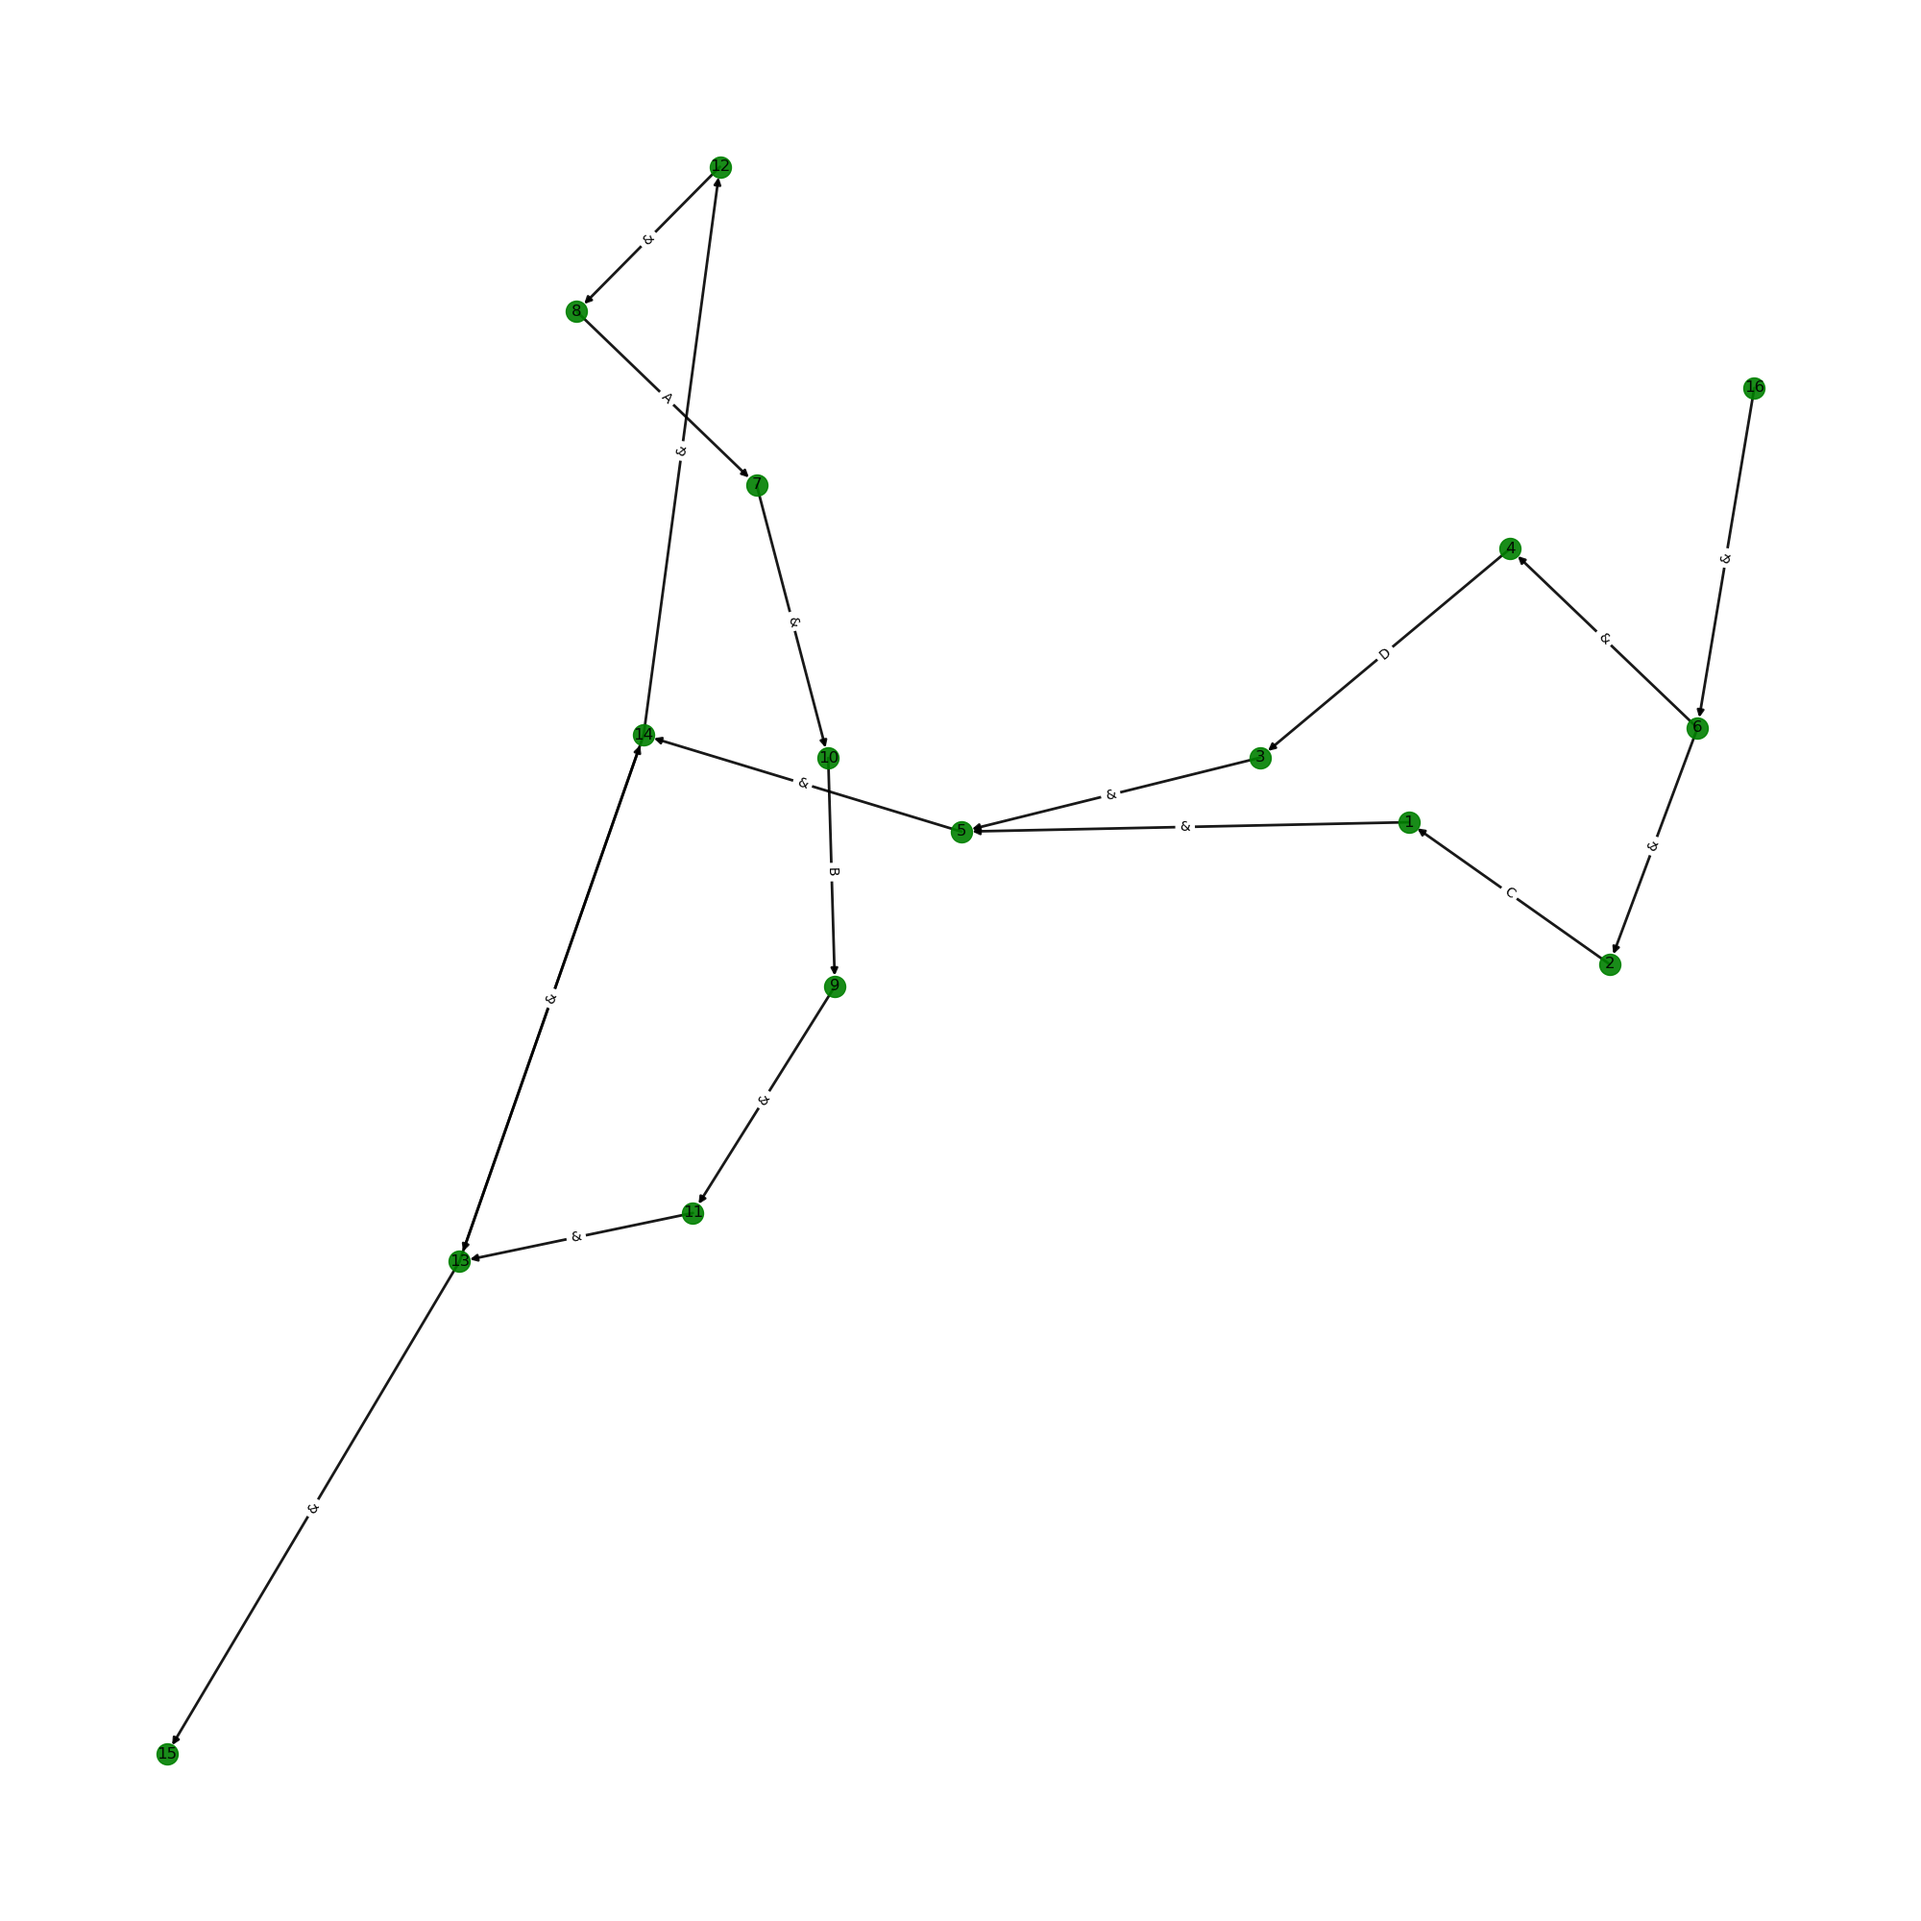
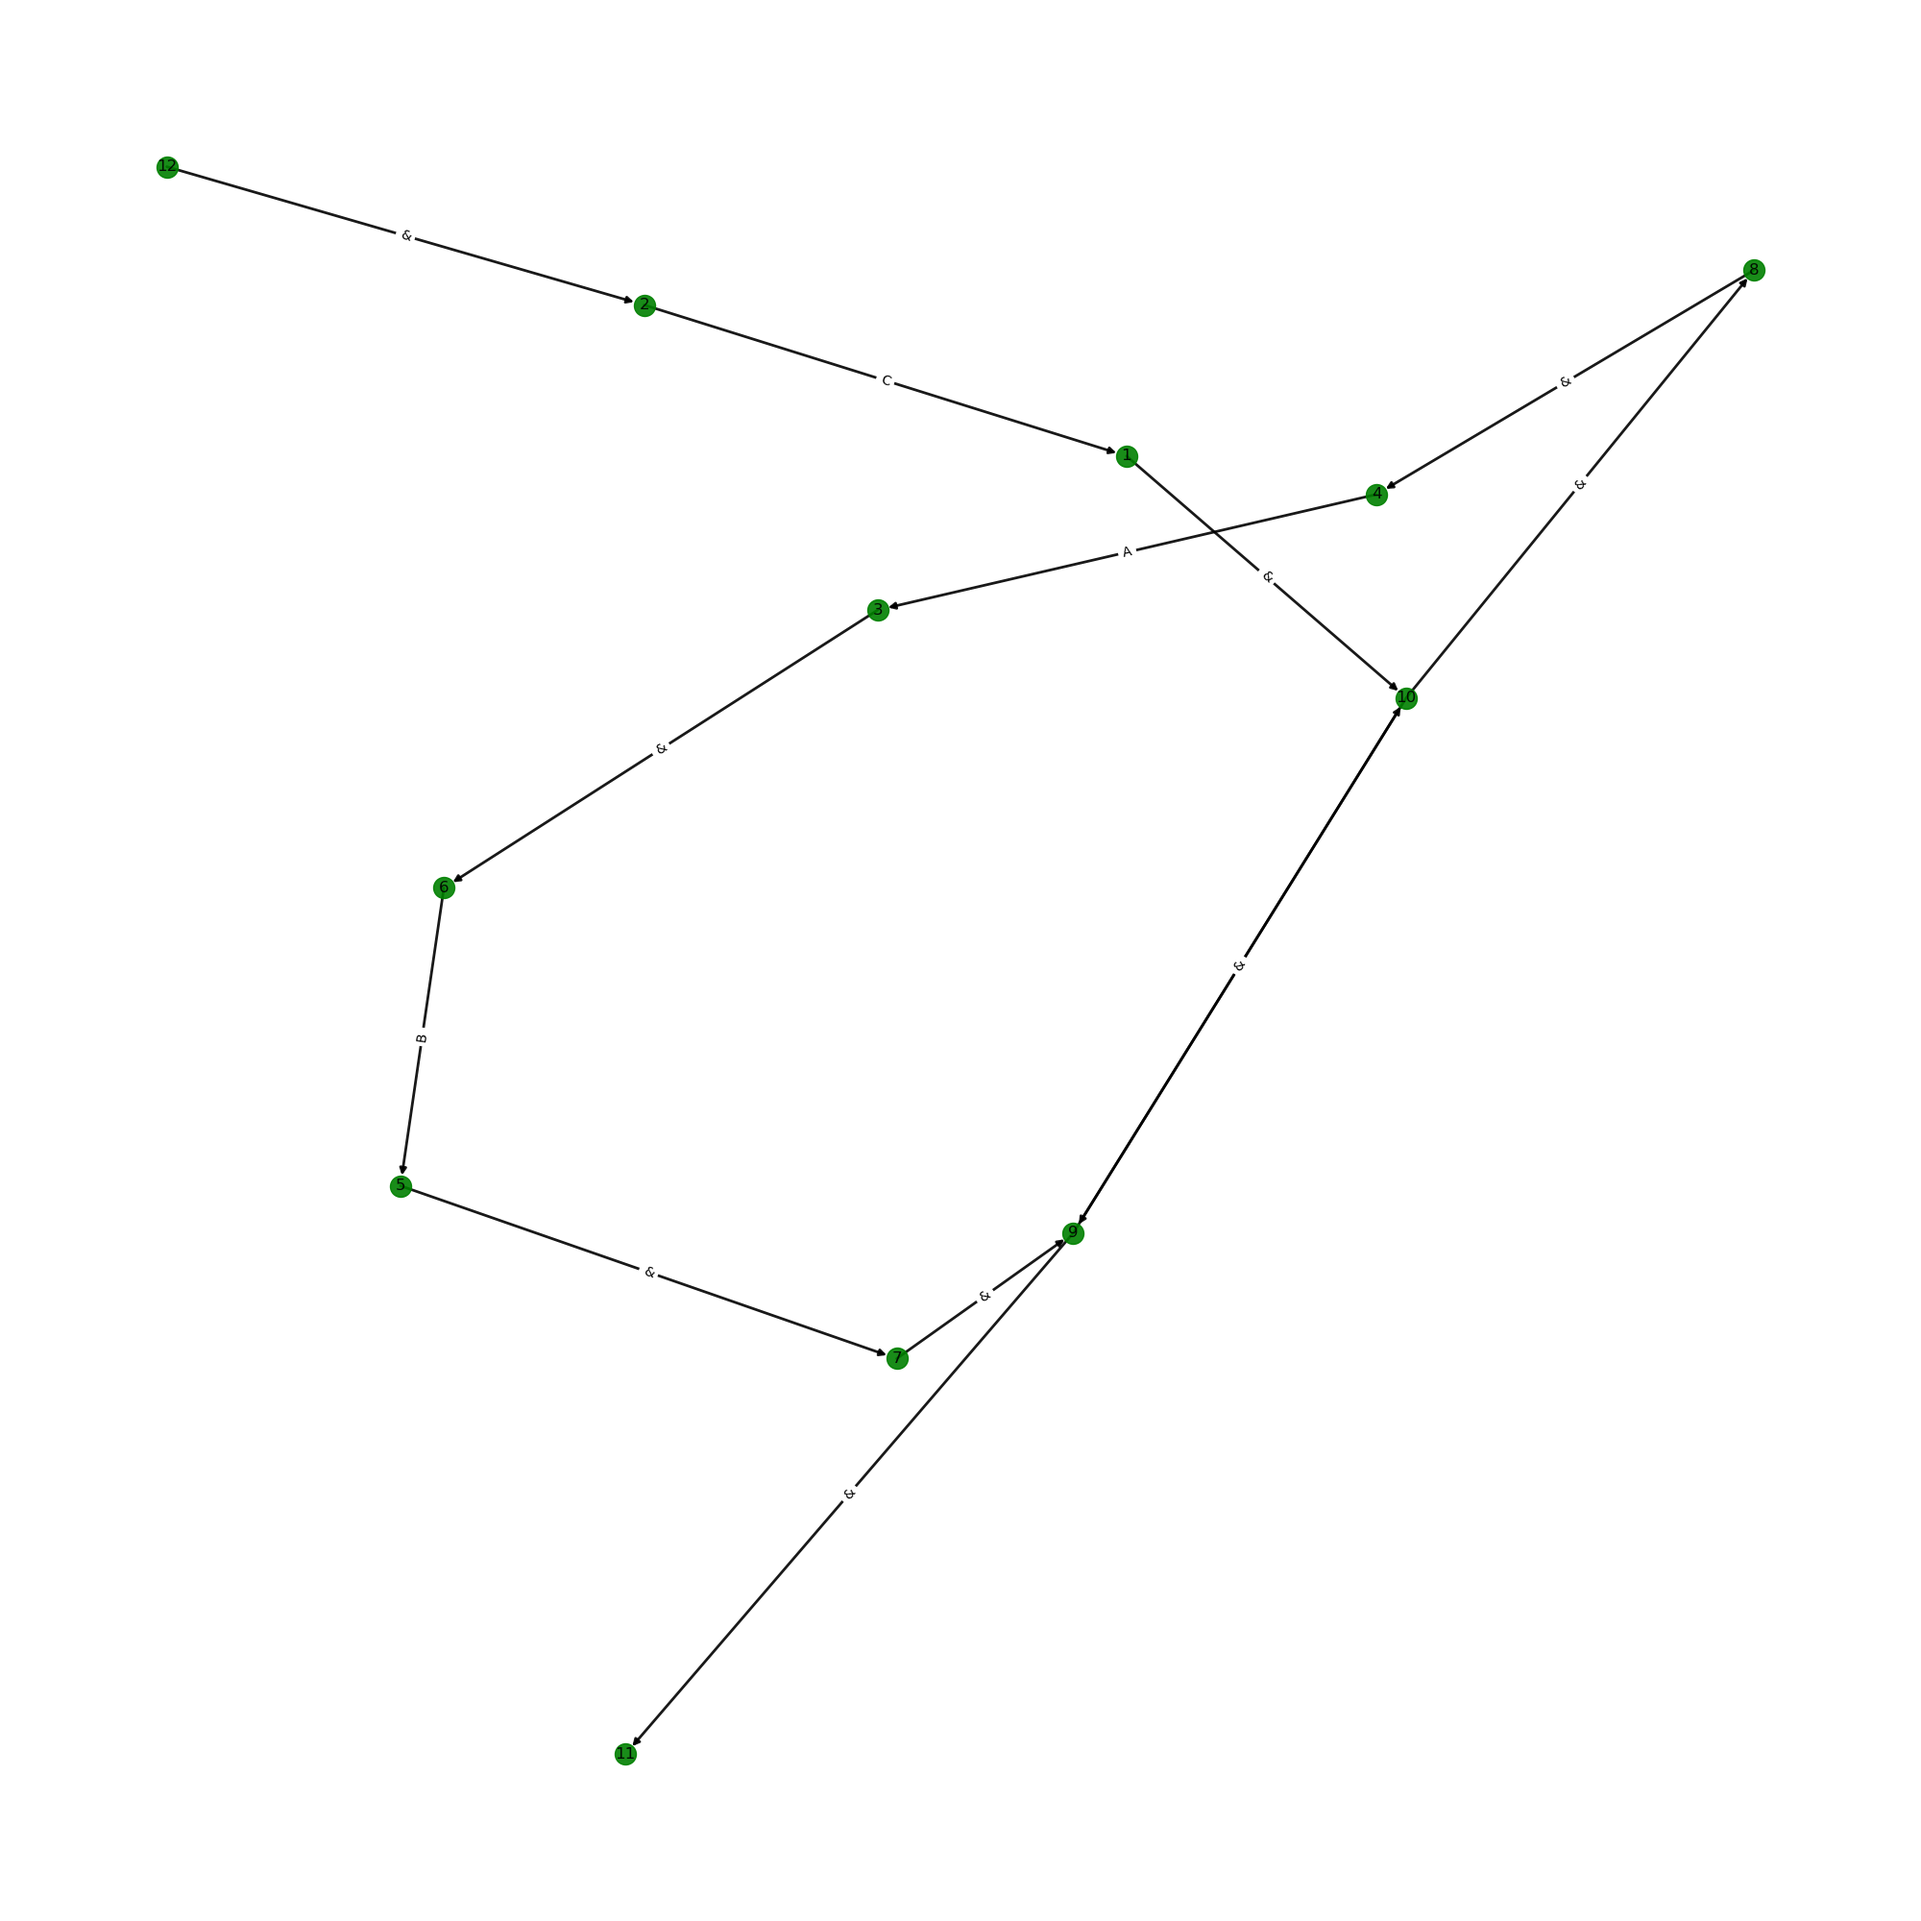
change graph

diff --git a/graph.py b/graph.py
@@ -22,13 +22,14 @@ class Graph():
             self.list_edge.append(edge)
 
     def show(self):
-        G = nx.DiGraph()
+        G = nx.OrderedMultiDiGraph()
         G.add_nodes_from(x.name for x in self.list_node)
         labels = {}
+        cont = 0
         for node in self.list_node:
             for edge in node.edges:
                 labels[(edge.node.name, node.name)] = edge.name
-                G.add_edge(edge.node.name, node.name,length = 5)
+                G.add_edge(edge.node.name, node.name, length=5)
 
         print("Nodes do Grafo: ")
         print(G.nodes())
@@ -38,7 +39,7 @@ class Graph():
 
         pos = nx.layout.spring_layout(G)
 
-        plt.figure(figsize=(20,20)) 
+        plt.figure(figsize=(20, 20))
 
         nx.draw(G, pos, with_labels=True, edge_color='black', width=2,
                 linewidths=1, node_size=250, node_color='green', alpha=0.9,)

diff --git a/project_2.py b/project_2.py
@@ -6,7 +6,7 @@ from postfixNotation import PostfixNotation
 from finiteStateMachine import FiniteStateMachine
 
 if __name__ == "__main__":
-    postfixNotation = PostfixNotation('(C|D).(A.B)*')
+    postfixNotation = PostfixNotation('C.(A.B)*')
     print(postfixNotation.expression)
     print(postfixNotation.expression_postfix)
     finiteStateMachine = FiniteStateMachine(postfixNotation)
